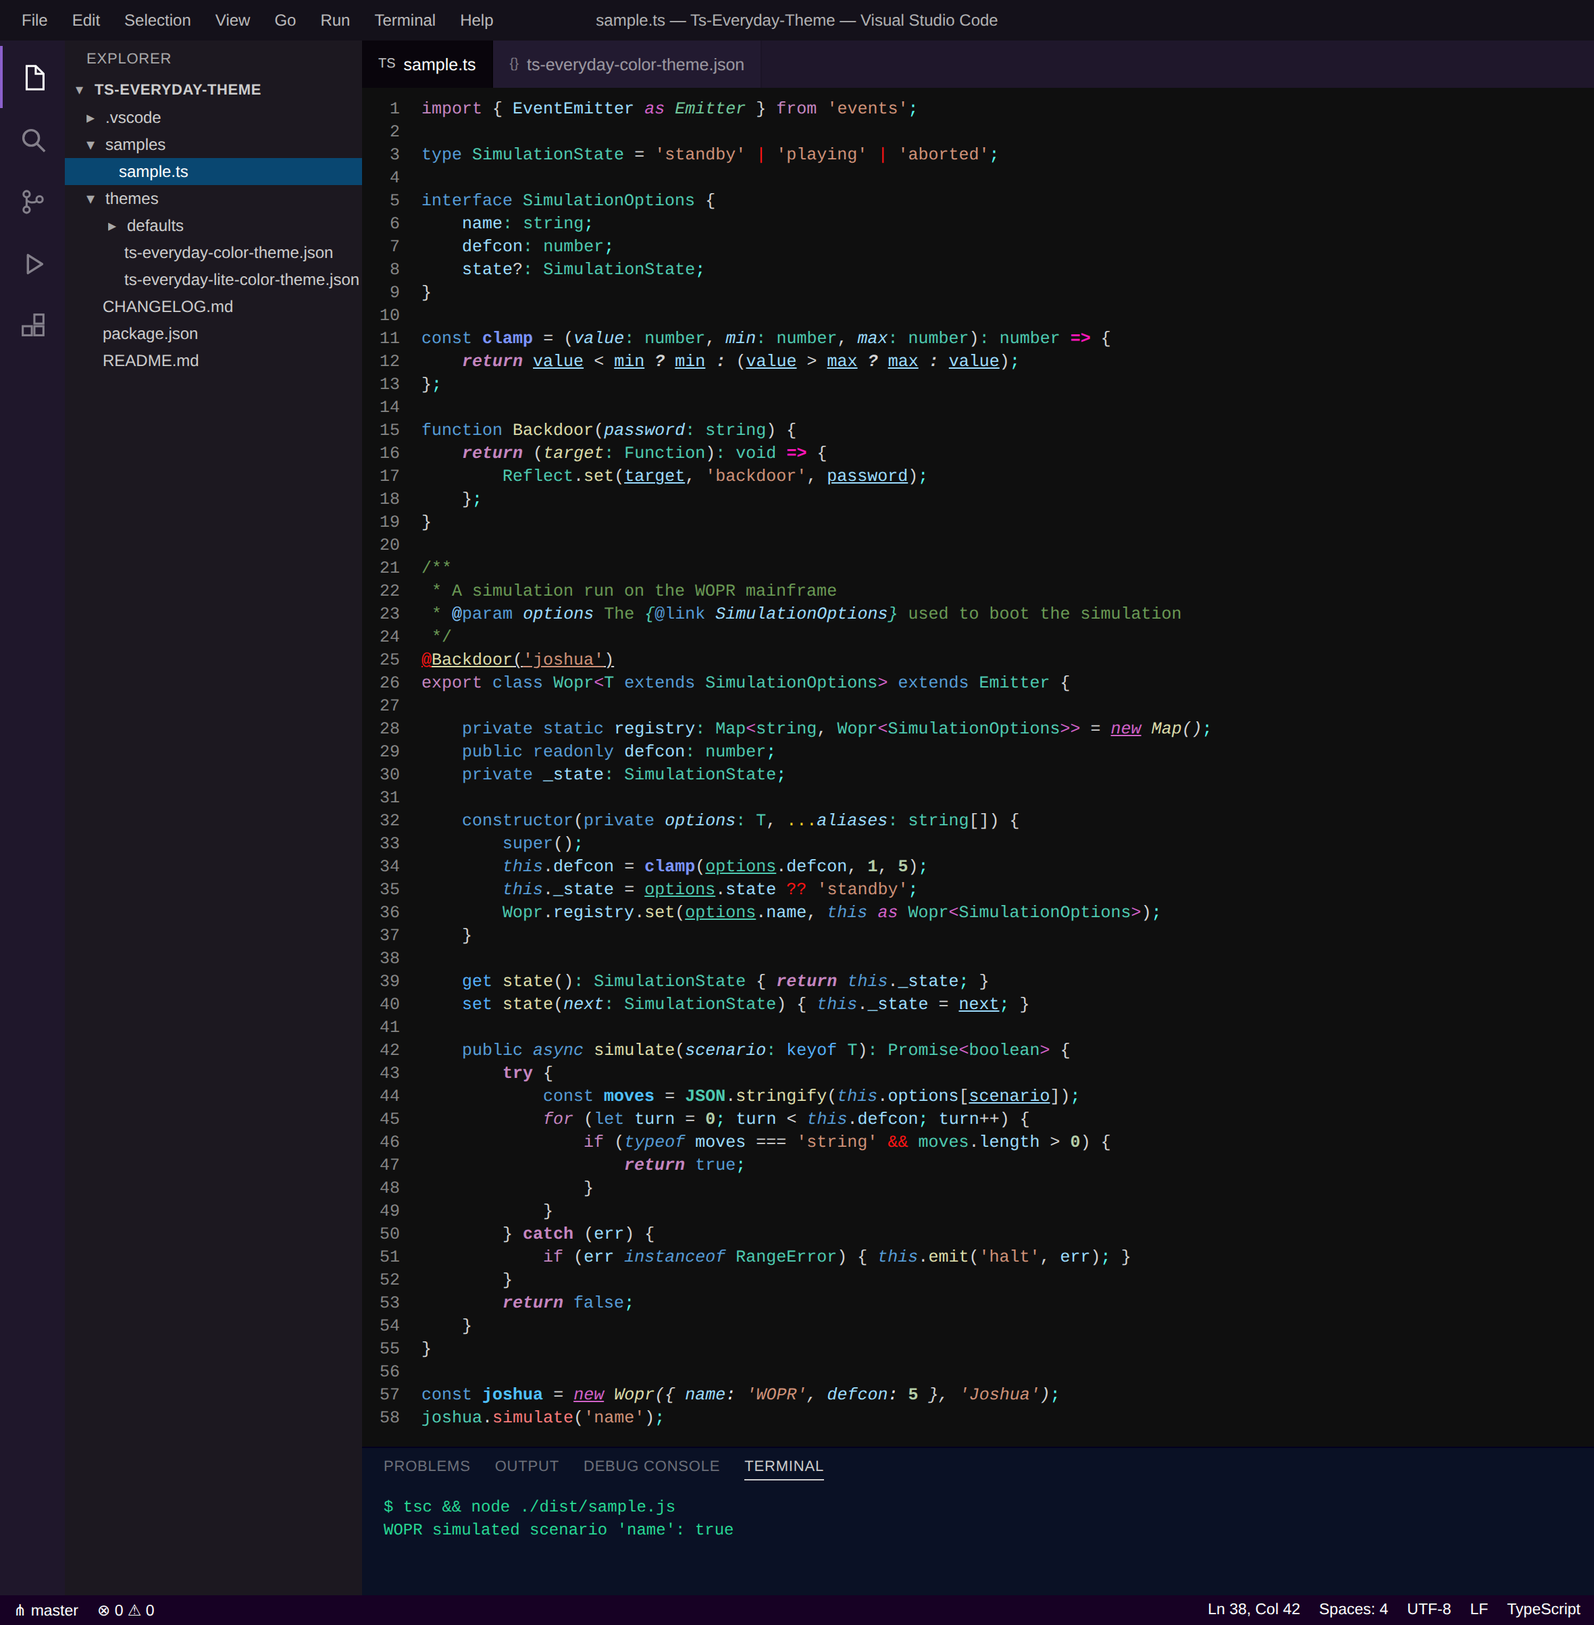
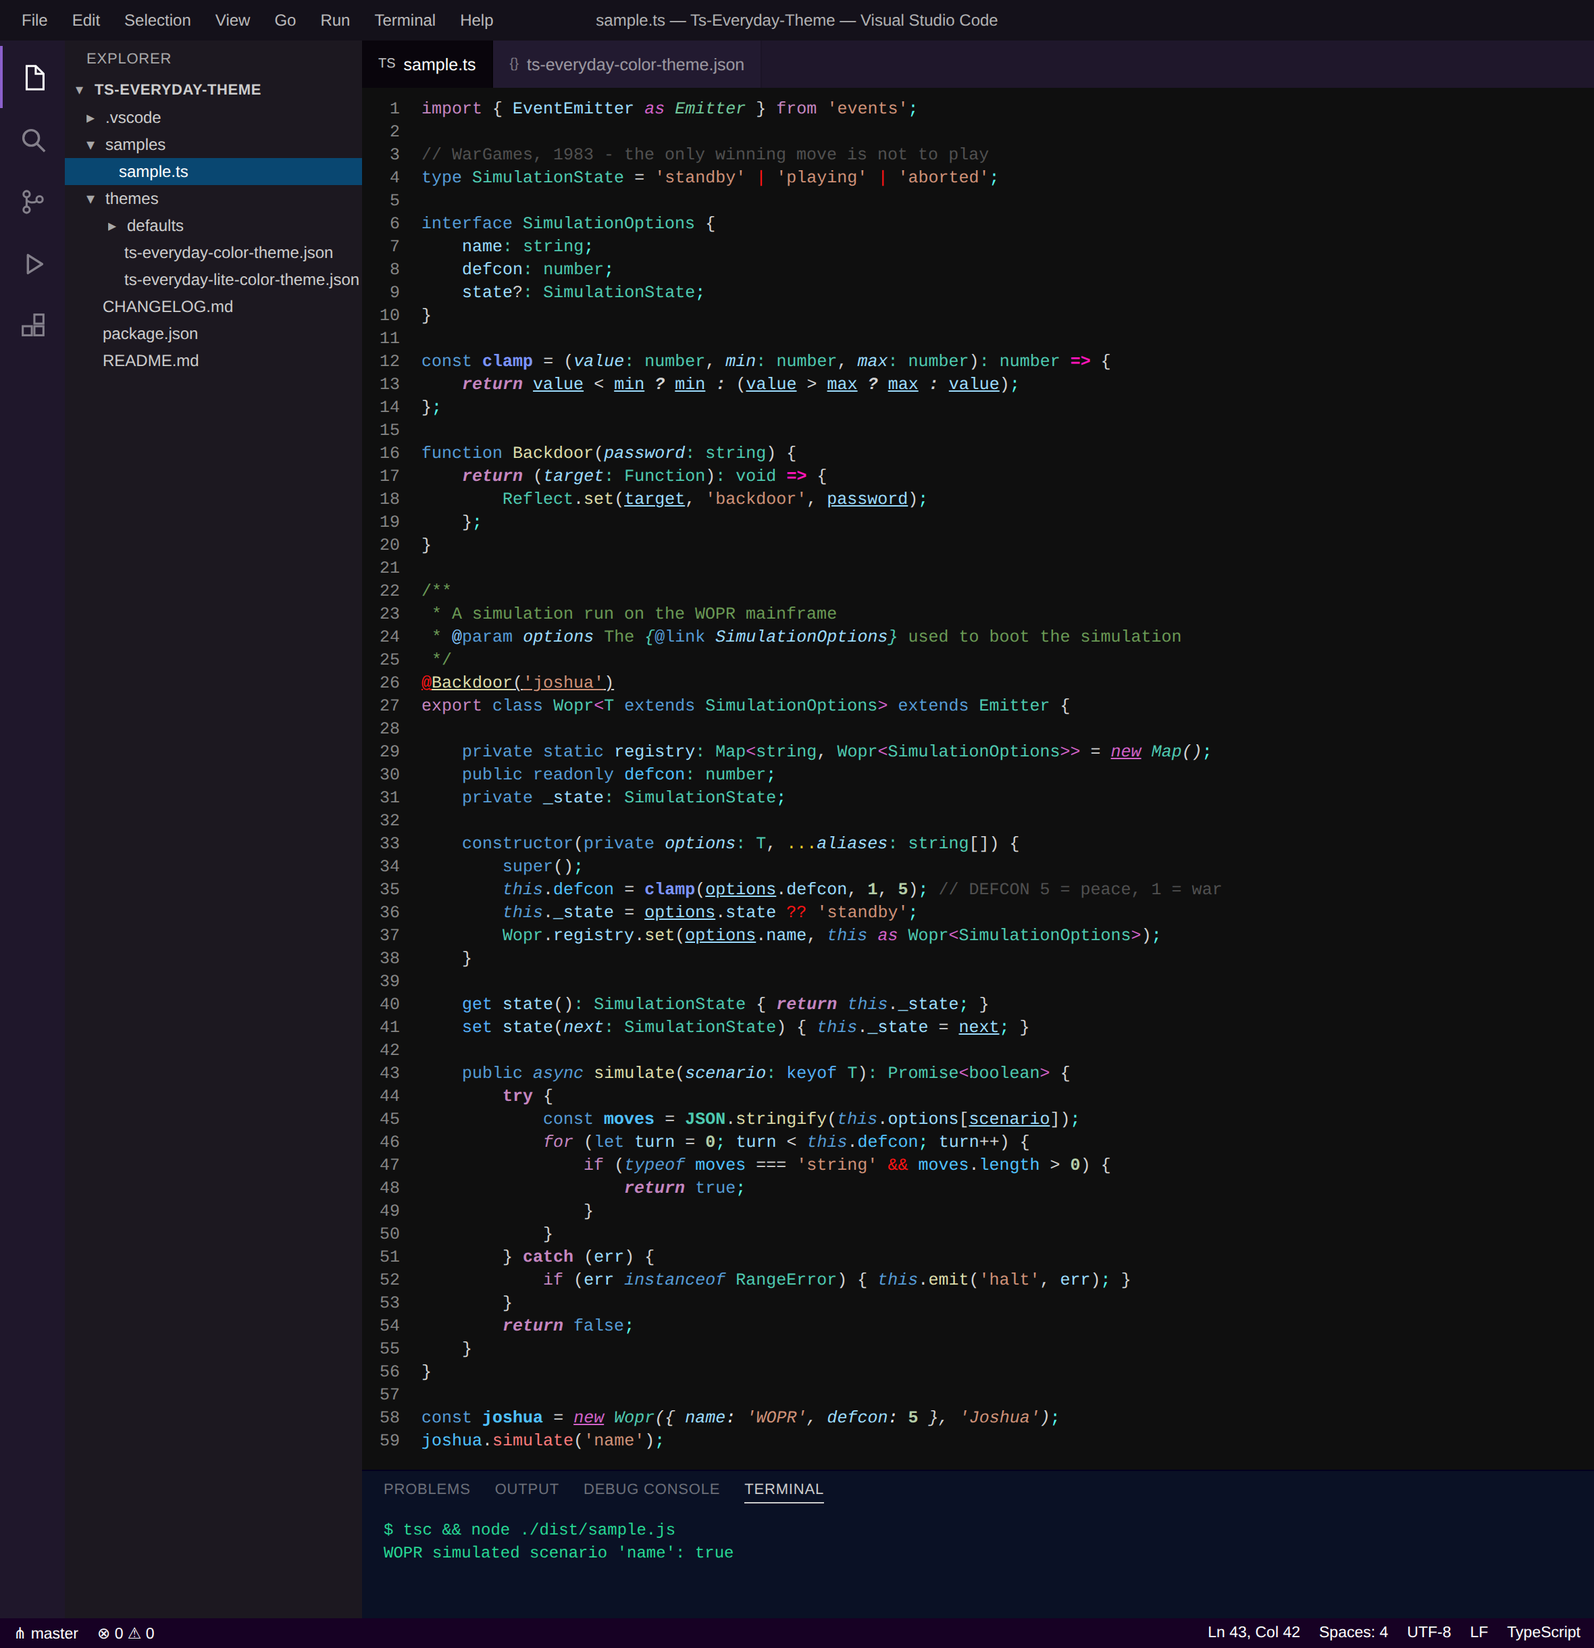
Render preview semantics from the real TypeScript language service
The hand-mapped semantic overlay mis-colored several identifiers (e.g. a
class after `new` came out gold, const instances came out teal). Replace it
by driving the actual TypeScript language service
(getEncodedSemanticClassifications, the same API VS Code's TS extension uses)
and resolving each classification the way VS Code does: theme
semanticTokenColors win by specificity, and unstyled classifications fall
back to the standard token-type -> scope map against the flattened Dark+
colors.

Also add a regular `//` comment to the sample so its dimmed styling is shown
distinctly from JSDoc, and refresh the previews.

Claude-Session: https://claude.ai/code/session_01BE9FuFhPFnkn8KqudN6Lbq

diff --git a/preview/build-previews.js b/preview/build-previews.js
@@ -8,23 +8,29 @@
  *      dark_plus.json -> dark_vs.json -> dark_defaults.json), exactly like VS Code does.
  *   2. Tokenizes samples/sample.ts with Shiki - the same TextMate grammar engine
  *      VS Code itself uses - against the flattened theme.
- *   3. Re-applies the theme's "semanticTokenColors" on top of the TextMate tokens,
- *      mimicking what the TypeScript language service contributes at runtime
- *      (Shiki alone has no language service, so this pass is hand-mapped for the sample).
+ *   3. Runs the real TypeScript language service over the sample and asks it for the
+ *      same semantic classifications VS Code's TypeScript extension consumes
+ *      (getEncodedSemanticClassifications, 2020 format), then resolves each one to a
+ *      style the way VS Code does: the theme's "semanticTokenColors" win by specificity,
+ *      and anything the theme doesn't style falls back to the standard token-type ->
+ *      scope map, resolved against the flattened TextMate colors.
  *   4. Wraps the highlighted code in a mock VS Code workbench built from the theme's
  *      own "colors" contributions (with stock Dark+ defaults as the fallback).
  *   5. Screenshots the result with headless Chromium via Playwright.
  */
 
 import { readFileSync, mkdirSync } from 'node:fs';
-import { dirname, resolve } from 'node:path';
+import { dirname, resolve, join } from 'node:path';
 import { fileURLToPath } from 'node:url';
+import { createRequire } from 'node:module';
 import { parse as parseJsonc } from 'jsonc-parser';
 import { createHighlighter, FontStyle } from 'shiki';
 import { chromium } from 'playwright-core';
+import ts from 'typescript';
 
 const __dirname = dirname(fileURLToPath(import.meta.url));
 const ROOT = resolve(__dirname, '..');
+const require = createRequire(import.meta.url);
 
 const CHROMIUM_PATH = process.env.CHROMIUM_PATH || '/opt/pw-browsers/chromium';
 
@@ -60,76 +66,212 @@ function flattenTheme(path) {
     };
 }
 
-//---------------------------------------------------------------------------
-// ++ Semantic token overlay
-//---------------------------------------------------------------------------
-
-/* The TypeScript language service classifies these identifiers in sample.ts at
- * runtime; VS Code then styles them via the theme's semanticTokenColors. Shiki
- * has no language service, so the classifications for the sample are declared
- * here and re-applied over the TextMate tokens. */
-const PARAMETERS = new Set(['value', 'min', 'max', 'password', 'target', 'options', 'aliases', 'next', 'scenario']);
-const READONLY_FUNCTIONS = new Set(['clamp']);
-const ASYNC_MEMBERS = new Set(['simulate']);
-const DEFAULT_LIBRARY_VARIABLES = new Set(['JSON', 'Reflect']);
-
-function normalizeSemanticRule(rule) {
-    if (typeof rule === 'string') { return { foreground: rule }; }
-    const out = { foreground: rule.foreground };
-    if (typeof rule.fontStyle === 'string') {
-        out.fontStyle = 0;
-        if (rule.fontStyle.includes('italic')) { out.fontStyle |= FontStyle.Italic; }
-        if (rule.fontStyle.includes('bold')) { out.fontStyle |= FontStyle.Bold; }
-        if (rule.fontStyle.includes('underline')) { out.fontStyle |= FontStyle.Underline; }
+/** Resolves a TextMate scope to its theme color, the way VS Code matches scopes:
+ *  a rule selector matches a scope when it is a dot-segment prefix of it, and the
+ *  longest (most specific) matching selector wins. */
+function makeScopeResolver(tokenColors) {
+    const rules = [];
+    for (const rule of tokenColors) {
+        if (!rule.settings) { continue; }
+        const scopes = Array.isArray(rule.scope) ? rule.scope
+            : typeof rule.scope === 'string' ? rule.scope.split(',').map((s) => s.trim())
+            : [];
+        for (const selector of scopes) {
+            if (selector) { rules.push({ selector, settings: rule.settings }); }
+        }
     }
-    if (rule.underline === true) { out.addUnderline = true; }
+    return (scope) => {
+        let best = null, bestLen = -1;
+        for (const { selector, settings } of rules) {
+            if ((scope === selector || scope.startsWith(selector + '.')) && selector.length > bestLen) {
+                best = settings; bestLen = selector.length;
+            }
+        }
+        return best;
+    };
+}
+
+//---------------------------------------------------------------------------
+// ++ Real TypeScript semantic classifications
+//---------------------------------------------------------------------------
+
+// TypeScript's 2020 classification legend (services/classifier2020.ts)
+const TS_TOKEN_TYPES = ['class', 'enum', 'interface', 'namespace', 'typeParameter', 'type',
+    'parameter', 'variable', 'enumMember', 'property', 'function', 'member'];
+const TS_TOKEN_MODIFIERS = ['declaration', 'static', 'async', 'readonly', 'defaultLibrary', 'local'];
+
+/** Drives the actual TypeScript language service (the same API VS Code's TS extension
+ *  uses) and returns one entry per classified identifier: { start, length, type, mods }. */
+function classifySemantics(code, fileName = '/sample.ts') {
+    const tsLibDir = dirname(require.resolve('typescript'));
+    const files = { [fileName]: code };
+    const host = {
+        getScriptFileNames: () => [fileName],
+        getScriptVersion: () => '1',
+        getScriptSnapshot: (f) => {
+            if (files[f] !== undefined) { return ts.ScriptSnapshot.fromString(files[f]); }
+            try { return ts.ScriptSnapshot.fromString(readFileSync(f, 'utf8')); } catch { return undefined; }
+        },
+        getCurrentDirectory: () => '/',
+        getCompilationSettings: () => ({
+            target: ts.ScriptTarget.ES2020, module: ts.ModuleKind.CommonJS, experimentalDecorators: true
+        }),
+        getDefaultLibFileName: (o) => join(tsLibDir, ts.getDefaultLibFileName(o)),
+        fileExists: (f) => files[f] !== undefined || ts.sys.fileExists(f),
+        readFile: (f) => files[f] ?? ts.sys.readFile(f),
+        readDirectory: ts.sys.readDirectory,
+        directoryExists: ts.sys.directoryExists,
+        getDirectories: ts.sys.getDirectories
+    };
+    const svc = ts.createLanguageService(host, ts.createDocumentRegistry());
+    const { spans } = svc.getEncodedSemanticClassifications(
+        fileName, { start: 0, length: code.length }, ts.SemanticClassificationFormat.TwentyTwenty);
+
+    const out = new Map();
+    for (let i = 0; i < spans.length; i += 3) {
+        const start = spans[i], length = spans[i + 1], cls = spans[i + 2];
+        const type = TS_TOKEN_TYPES[(cls >> 8) - 1];
+        const modBits = cls & 0xff;
+        const mods = new Set(TS_TOKEN_MODIFIERS.filter((_, b) => modBits & (1 << b)));
+        if (type) { out.set(start, { start, length, type, mods }); }
+    }
     return out;
 }
 
-/** Applies the flattened theme's semanticTokenColors to the token stream,
- *  matching VS Code's rule precedence (most-specific selector wins; a string
- *  fontStyle replaces the token's style, boolean flags add to it). */
-function applySemanticOverlay(lines, semanticTokenColors) {
-    const rule = (sel) => semanticTokenColors[sel] !== undefined
-        ? normalizeSemanticRule(semanticTokenColors[sel]) : undefined;
-    const seen = new Map();
+//---------------------------------------------------------------------------
+// ++ Semantic style resolution (mirrors VS Code's precedence)
+//---------------------------------------------------------------------------
 
-    for (const line of lines) {
-        // Comments never receive semantic tokens from the language service
-        const first = line.map((t) => t.content.trim()).find((s) => s !== '') ?? '';
-        if (first.startsWith('//') || first.startsWith('/*') || first.startsWith('*')) { continue; }
-        let prev = '';
-        for (const token of line) {
-            const word = token.content.trim();
-            if (!/^[A-Za-z_$][\w$]*$/.test(word)) {
-                if (word !== '') { prev = word; }
-                continue;
-            }
-            const count = seen.get(word) ?? 0;
-            seen.set(word, count + 1);
-            const isDeclaration = count === 0;
-            const afterDot = prev === '.';
-            prev = word;
+// VS Code's default token-type -> TextMate scope map (tokenClassificationRegistry.ts)
+const DEFAULT_TYPE_SCOPES = {
+    namespace: ['entity.name.namespace'],
+    type: ['entity.name.type', 'support.type'],
+    class: ['entity.name.type.class', 'support.class'],
+    interface: ['entity.name.type.interface'],
+    enum: ['entity.name.type.enum'],
+    typeParameter: ['entity.name.type.parameter'],
+    function: ['entity.name.function', 'support.function'],
+    member: ['entity.name.function.member', 'support.function'], // TS "member" == VS Code "method"
+    variable: ['variable.other.readwrite', 'entity.name.variable'],
+    parameter: ['variable.parameter'],
+    property: ['variable.other.property'],
+    enumMember: ['variable.other.enummember']
+};
+// Modifier-keyed default rules
+const DEFAULT_READONLY_SCOPES = {
+    variable: ['variable.other.constant'],
+    property: ['variable.other.constant.property']
+};
 
-            let semantic;
-            if (PARAMETERS.has(word) && !(afterDot && word === 'options')) {
-                // "options" is a parameter property; "this.options" resolves as a
-                // property access, which this theme leaves to the TextMate colors.
-                semantic = (isDeclaration ? rule('parameter.declaration') : undefined) ?? rule('parameter');
-            } else if (READONLY_FUNCTIONS.has(word)) {
-                semantic = (isDeclaration ? rule('function.declaration.readonly') : undefined) ?? rule('function.readonly');
-            } else if (ASYNC_MEMBERS.has(word)) {
-                semantic = (isDeclaration ? rule('member.declaration.async') : undefined) ?? rule('member.async');
-            } else if (DEFAULT_LIBRARY_VARIABLES.has(word)) {
-                semantic = rule('variable.defaultLibrary');
-            }
-            if (!semantic) { continue; }
+function parseFontStyle(str) {
+    return {
+        italic: /italic/.test(str),
+        bold: /bold/.test(str),
+        underline: /underline/.test(str)
+    };
+}
 
-            if (semantic.foreground) { token.color = semantic.foreground; }
-            if (semantic.fontStyle !== undefined) { token.fontStyle = semantic.fontStyle; }
-            if (semantic.addUnderline) { token.fontStyle = (token.fontStyle > 0 ? token.fontStyle : 0) | FontStyle.Underline; }
+/** Parses a "type.mod1.mod2" semanticTokenColors selector. */
+function parseSelector(key) {
+    const [type, ...mods] = key.split('.');
+    return { type, mods };
+}
+
+function normalizeSemanticSettings(value) {
+    if (typeof value === 'string') { return { foreground: value }; }
+    return value;
+}
+
+/** Builds a resolver that, given a TS classification, returns the final
+ *  { color, style } VS Code would paint - theme semantic rules first (by
+ *  specificity), then the standard scope fallback for anything unstyled. */
+function makeSemanticResolver(flat) {
+    const scopeColor = makeScopeResolver(flat.tokenColors);
+
+    const themeRules = Object.entries(flat.semanticTokenColors).map(([key, value]) => ({
+        ...parseSelector(key),
+        settings: normalizeSemanticSettings(value)
+    }));
+
+    const fallbackForeground = (cls) => {
+        const scopeLists = [];
+        if (cls.mods.has('readonly') && DEFAULT_READONLY_SCOPES[cls.type]) {
+            scopeLists.push(DEFAULT_READONLY_SCOPES[cls.type]);
         }
-    }
+        if (DEFAULT_TYPE_SCOPES[cls.type]) { scopeLists.push(DEFAULT_TYPE_SCOPES[cls.type]); }
+        for (const scopes of scopeLists) {
+            for (const scope of scopes) {
+                const s = scopeColor(scope);
+                if (s && s.foreground) { return s.foreground; }
+            }
+        }
+        return undefined;
+    };
+
+    return (cls) => {
+        // Most-specific matching theme rule (all its modifiers must be present)
+        let rule = null, ruleSpecificity = -1;
+        for (const r of themeRules) {
+            if (r.type !== cls.type) { continue; }
+            if (!r.mods.every((m) => cls.mods.has(m))) { continue; }
+            if (r.mods.length > ruleSpecificity) { rule = r; ruleSpecificity = r.mods.length; }
+        }
+
+        const color = (rule && rule.settings.foreground) ? rule.settings.foreground : fallbackForeground(cls);
+
+        // fontStyle: only overridden when the theme rule explicitly sets one; a
+        // string replaces the style outright, booleans add to it.
+        let style;
+        if (rule) {
+            const s = rule.settings;
+            if (typeof s.fontStyle === 'string') { style = parseFontStyle(s.fontStyle); }
+            if (s.underline === true || s.bold === true || s.italic === true) {
+                style = style ?? { italic: false, bold: false, underline: false, additive: true };
+                if (s.underline === true) { style.underline = true; }
+                if (s.bold === true) { style.bold = true; }
+                if (s.italic === true) { style.italic = true; }
+            }
+        }
+        return { color, style };
+    };
+}
+
+//---------------------------------------------------------------------------
+// ++ Applying semantics onto the TextMate token stream
+//---------------------------------------------------------------------------
+
+function styleToBits(style, existing) {
+    // "additive" styles (boolean modifiers) layer on top of the TextMate style;
+    // a fontStyle string starts from scratch.
+    let bits = style.additive ? (existing > 0 ? existing : 0) : 0;
+    if (style.italic) { bits |= FontStyle.Italic; }
+    if (style.bold) { bits |= FontStyle.Bold; }
+    if (style.underline) { bits |= FontStyle.Underline; }
+    return bits;
+}
+
+/** Overlays the resolved semantic styles onto Shiki's TextMate tokens by matching
+ *  each classified identifier to the token that starts at the same source offset. */
+function applySemantics(code, lines, classifications, resolve) {
+    const lineStarts = [];
+    let acc = 0;
+    for (const text of code.split('\n')) { lineStarts.push(acc); acc += text.length + 1; }
+
+    lines.forEach((line, li) => {
+        let col = 0;
+        for (const token of line) {
+            const lead = token.content.length - token.content.trimStart().length;
+            const start = lineStarts[li] + col + lead;
+            col += token.content.length;
+
+            const cls = classifications.get(start);
+            if (!cls || cls.length !== token.content.trim().length) { continue; }
+
+            const { color, style } = resolve(cls);
+            if (color) { token.color = color; }
+            if (style) { token.fontStyle = styleToBits(style, token.fontStyle); }
+        }
+    });
 }
 
 //---------------------------------------------------------------------------
@@ -292,7 +434,7 @@ WOPR simulated scenario 'name': true</div>
     </div>
     <div class="statusbar">
         <div class="group"><span>&#8916; master</span><span>&#8855; 0 &#9888; 0</span></div>
-        <div class="group"><span>Ln 38, Col 42</span><span>Spaces: 4</span><span>UTF-8</span><span>LF</span><span>TypeScript</span></div>
+        <div class="group"><span>Ln 43, Col 42</span><span>Spaces: 4</span><span>UTF-8</span><span>LF</span><span>TypeScript</span></div>
     </div>
 </div>
 </body></html>`;
@@ -310,6 +452,7 @@ const THEMES = [
 const code = readFileSync(resolve(ROOT, 'samples/sample.ts'), 'utf8').trimEnd();
 mkdirSync(resolve(ROOT, 'assets'), { recursive: true });
 
+const classifications = classifySemantics(code);
 const flats = THEMES.map((t) => ({ ...t, flat: flattenTheme(resolve(ROOT, t.file)) }));
 
 const highlighter = await createHighlighter({
@@ -322,7 +465,7 @@ const page = await browser.newPage({ viewport: { width: 1240, height: 800 }, dev
 
 for (const t of flats) {
     const lines = highlighter.codeToTokensBase(code, { lang: 'typescript', theme: t.id });
-    applySemanticOverlay(lines, t.flat.semanticTokenColors);
+    applySemantics(code, lines, classifications, makeSemanticResolver(t.flat));
 
     const editorFg = t.flat.colors['editor.foreground'] ?? '#D4D4D4';
     const html = renderWindow(t.flat, renderCode(lines, editorFg), t.tabLabel);

diff --git a/samples/sample.ts b/samples/sample.ts
@@ -1,5 +1,6 @@
 import { EventEmitter as Emitter } from 'events';
 
+// WarGames, 1983 - the only winning move is not to play
 type SimulationState = 'standby' | 'playing' | 'aborted';
 
 interface SimulationOptions {
@@ -31,7 +32,7 @@ export class Wopr<T extends SimulationOptions> extends Emitter {
 
     constructor(private options: T, ...aliases: string[]) {
         super();
-        this.defcon = clamp(options.defcon, 1, 5);
+        this.defcon = clamp(options.defcon, 1, 5); // DEFCON 5 = peace, 1 = war
         this._state = options.state ?? 'standby';
         Wopr.registry.set(options.name, this as Wopr<SimulationOptions>);
     }

diff --git a/README.md b/README.md
@@ -53,7 +53,7 @@ Both themes also enable VS Code's [semantic highlighting](https://code.visualstu
 * **Readonly functions** (i.e. `const` arrow functions) are **bold** periwinkle (`#7c94fd`), to distinguish them from regular `function` declarations
 * **Default library variables** like `JSON` & `Reflect` are teal (`#4EC9B0`), matching the built-in types they belong to
 
-Let's take a look at lines 42 & 58 of the sample above. As you can see, `simulate` is gold where the `async` method is *declared*, but salmon where it is *called* from- that's the `member.async` / `member.declaration.async` pair doing its job, flagging at the call site exactly where an `await` belongs.
+Let's take a look at lines 43 & 59 of the sample above. As you can see, `simulate` is gold where the `async` method is *declared*, but salmon where it is *called* from- that's the `member.async` / `member.declaration.async` pair doing its job, flagging at the call site exactly where an `await` belongs.
 
 ## Generating the previews
 
